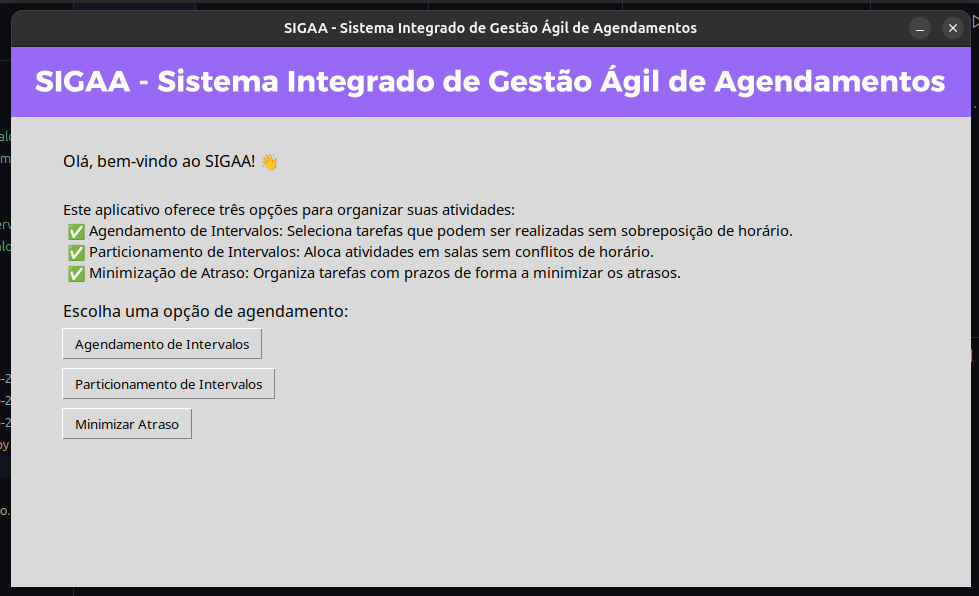
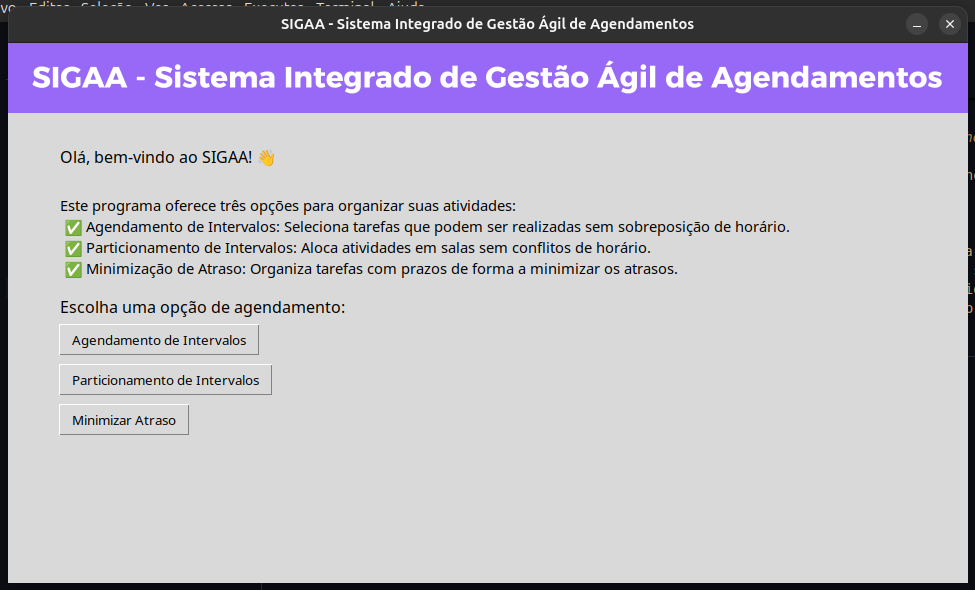
correções

diff --git a/main.py b/main.py
@@ -28,7 +28,7 @@ def main():
     text_bemvindo = Label(root, text="Olá, bem-vindo ao SIGAA! 👋", font=('normal', 12), justify="left")
     text_bemvindo.place(x=50, y=100)
 
-    text_explicacao = Label(root, text="Este aplicativo oferece três opções para organizar suas atividades:\n ✅ Agendamento de Intervalos: Seleciona tarefas que podem ser realizadas sem sobreposição de horário.\n ✅ Particionamento de Intervalos: Aloca atividades em salas sem conflitos de horário.\n ✅ Minimização de Atraso: Organiza tarefas com prazos de forma a minimizar os atrasos.", font=('normal', 11), justify="left")
+    text_explicacao = Label(root, text="Este programa oferece três opções para organizar suas atividades:\n ✅ Agendamento de Intervalos: Seleciona tarefas que podem ser realizadas sem sobreposição de horário.\n ✅ Particionamento de Intervalos: Aloca atividades em salas sem conflitos de horário.\n ✅ Minimização de Atraso: Organiza tarefas com prazos de forma a minimizar os atrasos.", font=('normal', 11), justify="left")
     text_explicacao.place(x=50, y=150)
 
     text_escolha = Label(root, text="Escolha uma opção de agendamento:", font=('normal', 12), justify="left")

diff --git a/README.md b/README.md
@@ -10,7 +10,7 @@
 | 22/1037993  |  Patrícia Helena Macedo da Silva |
 
 ## Sobre 
-![home](img/SIGAA.png)
+![home](imgs/SIGAA.png)
 Este projeto é uma aplicação em Python que apresenta uma interface gráfica interativa com três algoritmos do módulo GREED. Através dessa aplicação, o usuário pode escolher entre três opções para resolver problemas práticos de otimização de tempo e recursos. Os algoritmos são:
 
 1. ### Interval Scheduling
@@ -23,12 +23,13 @@ O algoritmo de Interval Partitioning é útil para a organização de aulas em s
 O algoritmo de Scheduling to Minimizing Lateness ajuda o usuário a organizar a ordem de tarefas sem intervalos entre elas, de maneira que o atraso total seja minimizado. O usuário, primeiramente, insere o horário de início para a realização das tarefas. Após isso, insere a duração de cada uma e a deadline (prazo de conclusão) de cada tarefa. O algoritmo, então, determina a melhor sequência para concluir as tarefas, buscando reduzir o atraso total e garantir que as tarefas sejam completadas o mais perto possível do prazo estipulado.
 
 ## Screenshots
-![home](img/sigaa-home.png)
-![agenda-intervalos](img/agenda-intervalos.png)
-![particionamento-intervalos](img/particionamento-intervalos.png)
-![minimiza-atrasos](img/minimiza-atrasos.png)
-![gerando-pdf](img/gerando-pdf.png)
-![pdf-gerado](img/pdf-gerado.png)
+![gif](imgs/gif-sigaa.gif)
+![home](imgs/sigaa-home.png)
+![agenda-intervalos](imgs/agenda-intervalos.png)
+![minimiza-atrasos](imgs/minimiza-atrasos.png)
+![particionamento-intervalos](imgs/particionamento-intervalos.png)
+![gerando-pdf](imgs/gerando-pdf.png)
+![pdf-gerado](imgs/pdf-gerado.png)
 
 ## Instalação 
 **Linguagem**: Python 3.12.7  
